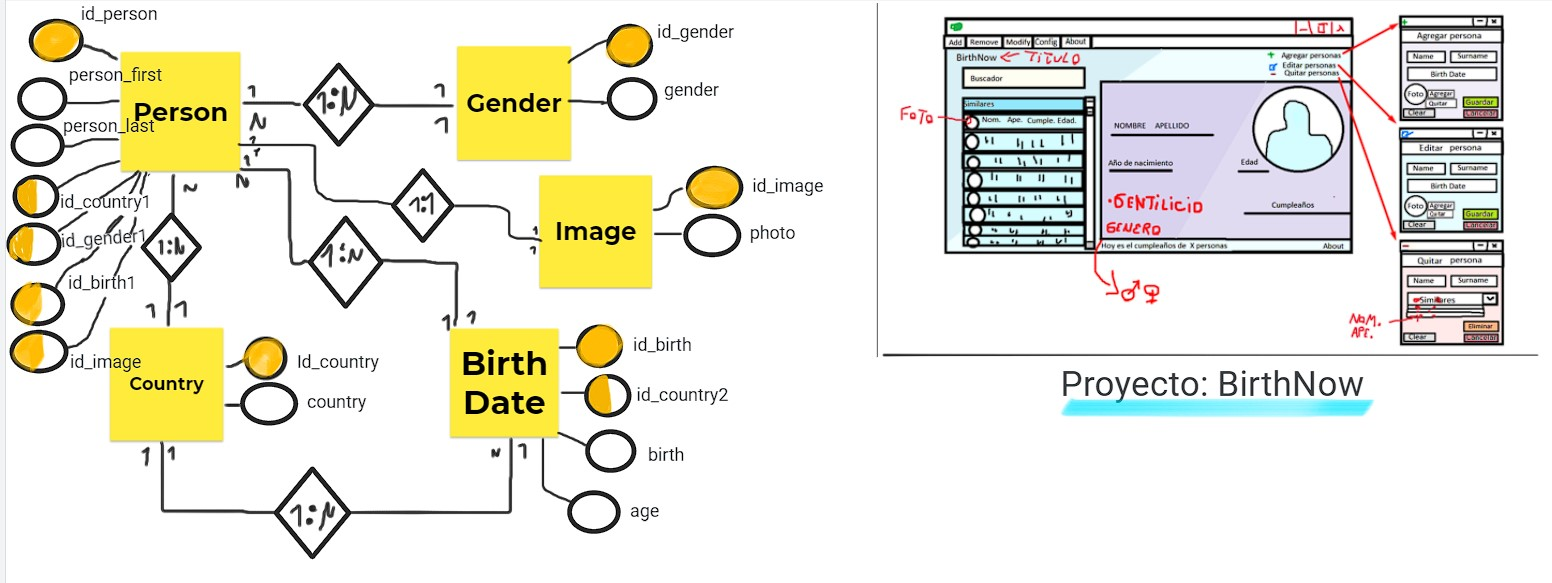
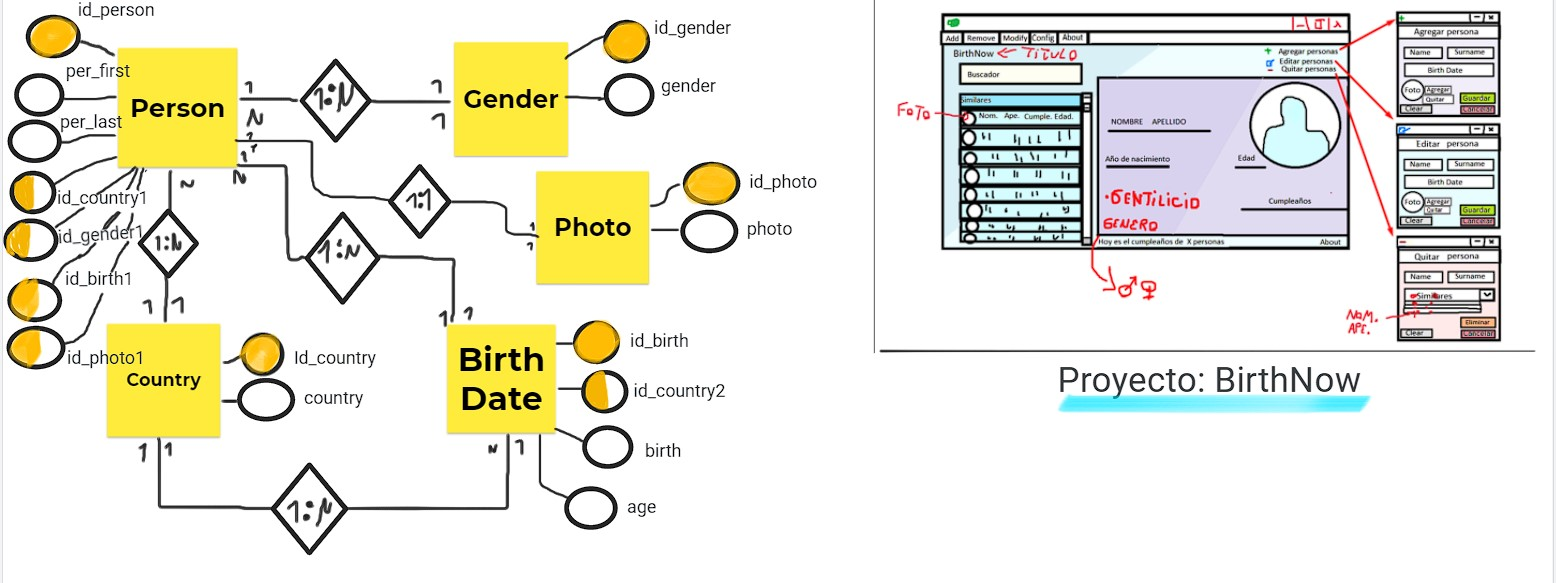
feat: Advance in the test file and first steps in the DB

Changed region(s): [[0.0, 0.0, 0.5258, 0.9571], [0.5567, 0.0, 0.9897, 0.741]]

diff --git a/test_BirDayBer.py b/test_BirDayBer.py
@@ -8,9 +8,29 @@ class BirthDB_testing(unittest.TestCase):
     @classmethod
     def setUpClass(cls):
         # It should connect the testing DB.
+        id_type = "INTEGER PRIMARY KEY AUTOINCREMENT"
 
-        cls.birth_db = BirDayBerDB_manager.Birthdays_db()
-        cls.birth_db.prepare_database("test_db.db")
+        cls.birth_db = BirDayBerDB_manager.Birthdays_db("test_db.db")
+        cls.birth_db.create_table({
+            "gender": f"id_gender {id_type}, gender VARCHAR(6)",
+
+            "photo": f"id_photo {id_type}, photo BLOB",
+
+            "country": f"id_country {id_type}, country VARCHAR(40)",
+
+            "birth_date": f"""id_birth {id_type},
+            id_country2 INTEGER, birth DATE, age INTEGER,
+            FOREIGN KEY (id_country2) REFERENCES country (id_country)""",
+
+            "person": f"""id_person {id_type}, per_first VARCHAR(35),
+            per_last VARCHAR(35), id_country1 INTEGER,
+            id_gender1 INTEGER, id_birth1 INTEGER, id_photo1 INTEGER,
+            FOREIGN KEY (id_country1) REFERENCES country (id_country),
+            FOREIGN KEY (id_gender1) REFERENCES gender (id_gender),
+            FOREIGN KEY (id_birth1) REFERENCES birth_date (id_birth),
+            FOREIGN KEY (id_photo1) REFERENCES photo (id_photo)"""})
+
+        del id_type
 
     @classmethod
     def tearDownClass(cls):
@@ -30,46 +50,46 @@ class BirthDB_testing(unittest.TestCase):
     def tearDown(self, cls):
         # All rows deletion.
 
-        cls.birth_db.remove_people([1, 2])  # id 1 = Franco | id 2 = Randolph
+        cls.birth_db.remove_person([1, 2])  # id 1 = Franco | id 2 = Randolph
 
     def test_check_names(self, cls):
-        self.all_names = cls.birth_db.people_names()
+        self.all_names = cls.birth_db.person_names()  # All
 
         self.assertEqual(self.all_names, ("Franco", "Randolph"))
         self.assertEqual(len(self.all_names), 2)
 
     def test_check_surnames(self, cls):
-        self.all_surnames = cls.birth_db.people_surnames()
+        self.all_surnames = cls.birth_db.person_surnames()  # All
 
         self.assertEqual(self.all_surnames, ("Frias", "Carter"))
         self.assertEqual(len(self.all_surnames), 2)
 
     def test_check_births(self, cls):
-        self.all_births = cls.birth_db.people_birth()
+        self.all_births = cls.birth_db.person_birth()  # All
 
         self.assertEqual(self.all_births, ("2003-11-18", "1919-12-23"))
         self.assertEqual(len(self.all_births), 2)
 
     def test_check_ages(self, cls):
-        self.all_ages = cls.birth_db.people_age()
+        self.all_ages = cls.birth_db.person_age()  # All
 
         self.assertEqual(self.all_ages, ("Frias", "Carter"))
         self.assertEqual(len(self.all_ages), 2)
 
     def test_check_countries(self, cls):
-        self.all_countries = cls.birth_db.people_age()
+        self.all_countries = cls.birth_db.person_country()  # All
 
         self.assertEqual(self.all_countries, ("Argentina", "United States"))
         self.assertEqual(len(self.all_countries), 2)
 
     def test_check_genders(self, cls):
-        self.all_genders = cls.birth_db.people_age()
+        self.all_genders = cls.birth_db.person_gender()  # All
 
         self.assertEqual(self.all_genders, ("Male", "Male"))
         self.assertEqual(len(self.all_genders), 2)
 
     def test_check_photos(self, cls):
-        self.all_photos = cls.birth_db.people_age()
+        self.all_photos = cls.birth_db.person_photo()
 
         self.assertEqual(self.all_photos, (None, None))
         self.assertEqual(len(self.all_photos), 2)

diff --git a/BirDayBerDB_manager.py b/BirDayBerDB_manager.py
@@ -1,0 +1,29 @@
+import sqlite3
+
+
+class Birthdays_db:
+    def __init__(self, connection):
+        #  Preparation of the DB
+        self.connection = sqlite3.connect(connection)
+        self.cursor = self.connection.cursor()
+
+    def close_database(self):
+        self.connection.close()
+
+    def create_table(self, tables):
+        # for table in tables.items():
+        pass
+
+    def add_person(name, surname, country, gender, birth, photo):
+        """
+        Table attributes:
+        NOT NULL: {name, country, gender, birth}
+        NULLABLE: {surname, photo}
+        """
+
+        # sql_query = """
+        # INSERT ...
+        # """
+
+        # self.cursor.executemany()
+        pass
